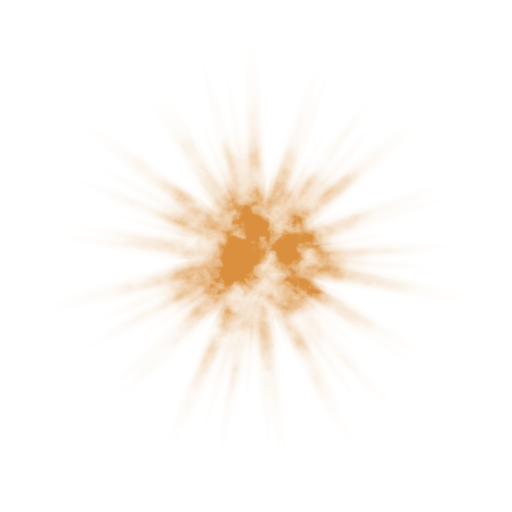
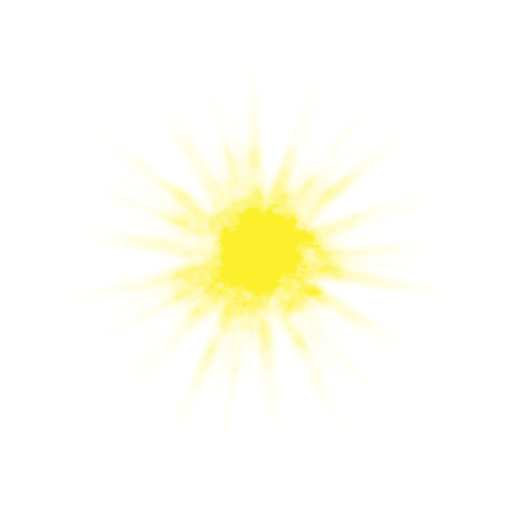
highlight fix

Changed region(s): [[0.3125, 0.2812, 0.6875, 0.6875]]

diff --git a/apps/ultra-ace-web/src/App.css b/apps/ultra-ace-web/src/App.css
@@ -117,7 +117,8 @@
             var(--highlight-pad) * 5
     );
 
-    overflow: hidden;
+    overflow-x: hidden;
+    overflow-y: visible; /* ✅ allow glow escape */
 
 }
 
@@ -279,15 +280,16 @@
    ========================= */
 
 .card.highlight {
-    z-index: 4;
+    z-index: 12;
 }
 
 .card-inner.highlight {
     position: relative;
-    z-index: 4;
+    z-index: 12;
 
     animation: highlightPulse 380ms ease-out forwards;
     box-shadow: 0 0 16px rgba(255, 216, 77, 0.9);
+
 }
 
 .card-inner.highlight::before {
@@ -302,17 +304,18 @@
     background-position: center;
     background-size: contain;
 
-    /* GOLD / ORANGE COLORIZATION */
     filter:
             sepia(1)
-            hue-rotate(-12deg)
-            saturate(3.2)
-            brightness(0.85)
-            contrast(1.4)
-            blur(1.2px);
+            hue-rotate(-6deg)     /* ⬅ warmer, less green */
+            saturate(3.8)        /* ⬆ more color energy */
+            brightness(0.9)
+            contrast(1.45)
+            blur(1px);
 
-    opacity: 0.9;
+    opacity: 0.75;          /* ⬅ lower = tighter */
     mix-blend-mode: screen;
+    animation:
+            scorchBreath 720ms ease-in-out infinite;
 }
 
 .card-inner.highlight::after {
@@ -344,8 +347,10 @@
     mask-position: center;
     mask-size: contain;
 
-    opacity: 1;
-    filter: blur(1.2px);
+    opacity: 0.6;
+    filter: blur(1px);
+    animation:
+            scorchBreath 1100ms ease-in-out infinite;
 }
 
 @keyframes highlightPulse {
@@ -357,6 +362,35 @@
     }
     100% {
         transform: scale(1.05);
+    }
+}
+
+@keyframes scorchBreath {
+    0% {
+        opacity: 0.65;
+        filter:
+                blur(1px)
+                brightness(1)
+                saturate(1);
+        transform: scale(0.98) rotate(0deg);
+    }
+
+    50% {
+        opacity: 0.85;
+        filter:
+                blur(1.2px)
+                brightness(1.15)
+                saturate(1.15);
+        transform: scale(1.02) rotate(0.3deg);
+    }
+
+    100% {
+        opacity: 0.65;
+        filter:
+                blur(1px)
+                brightness(1)
+                saturate(1);
+        transform: scale(0.98) rotate(0deg);
     }
 }
 
